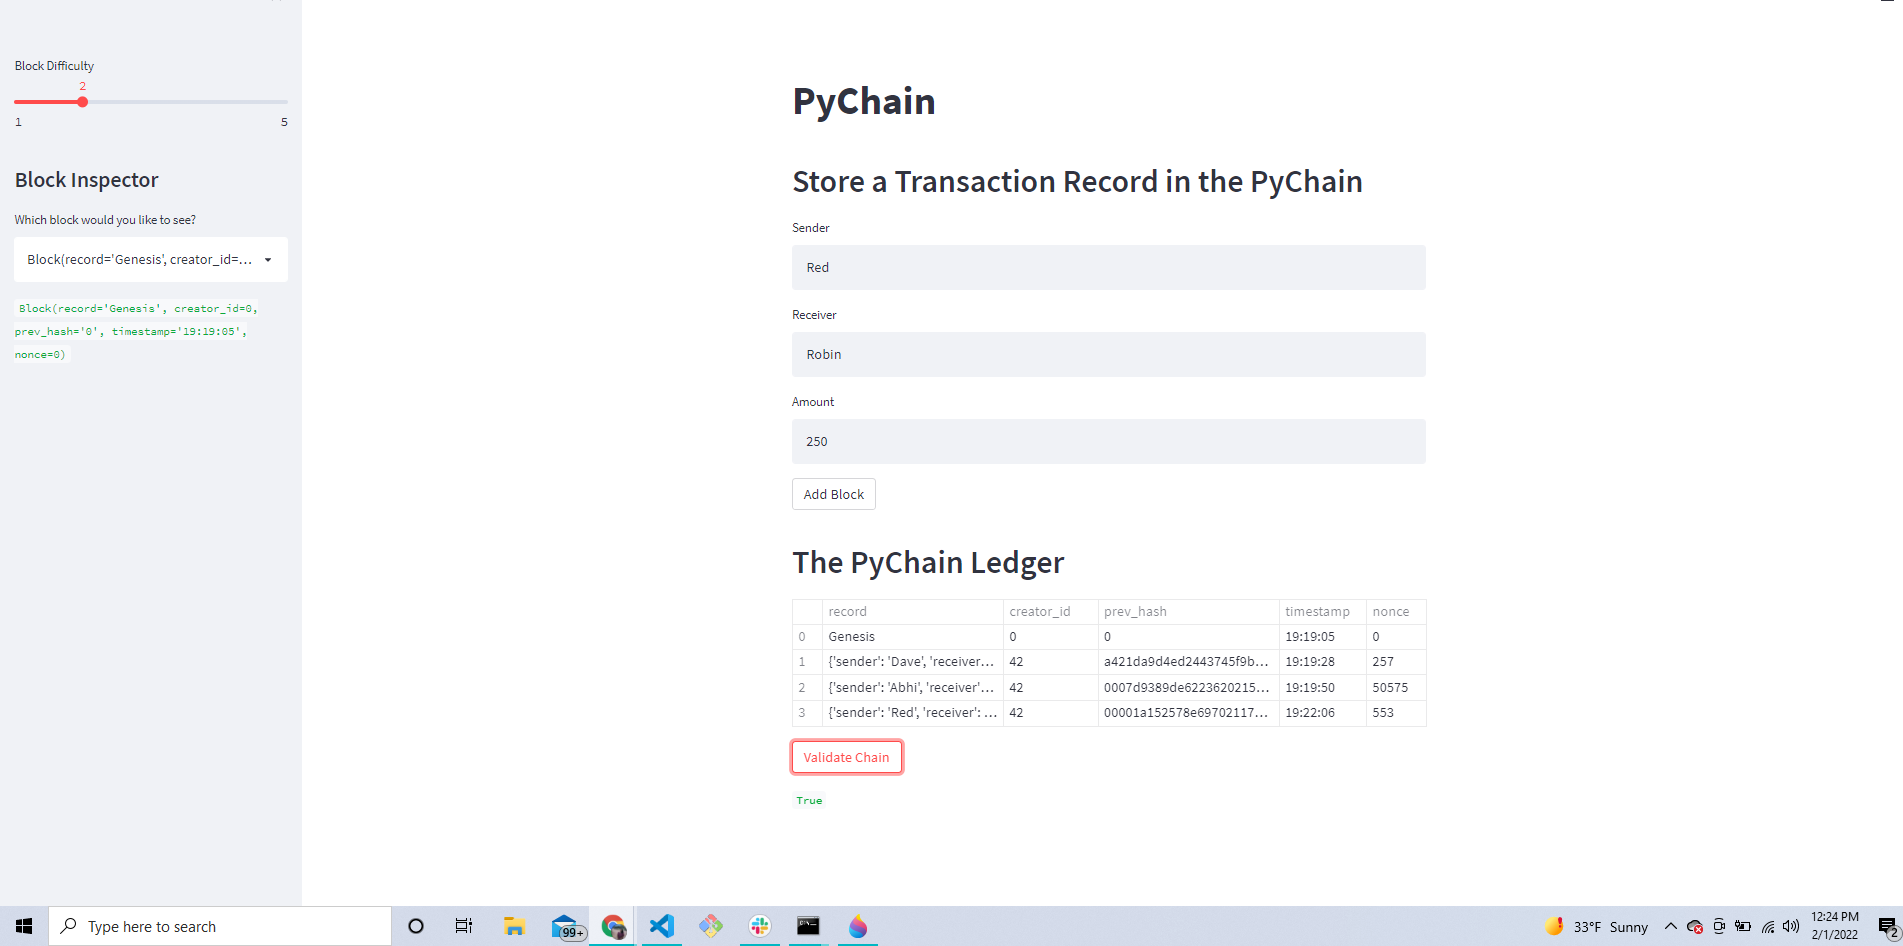
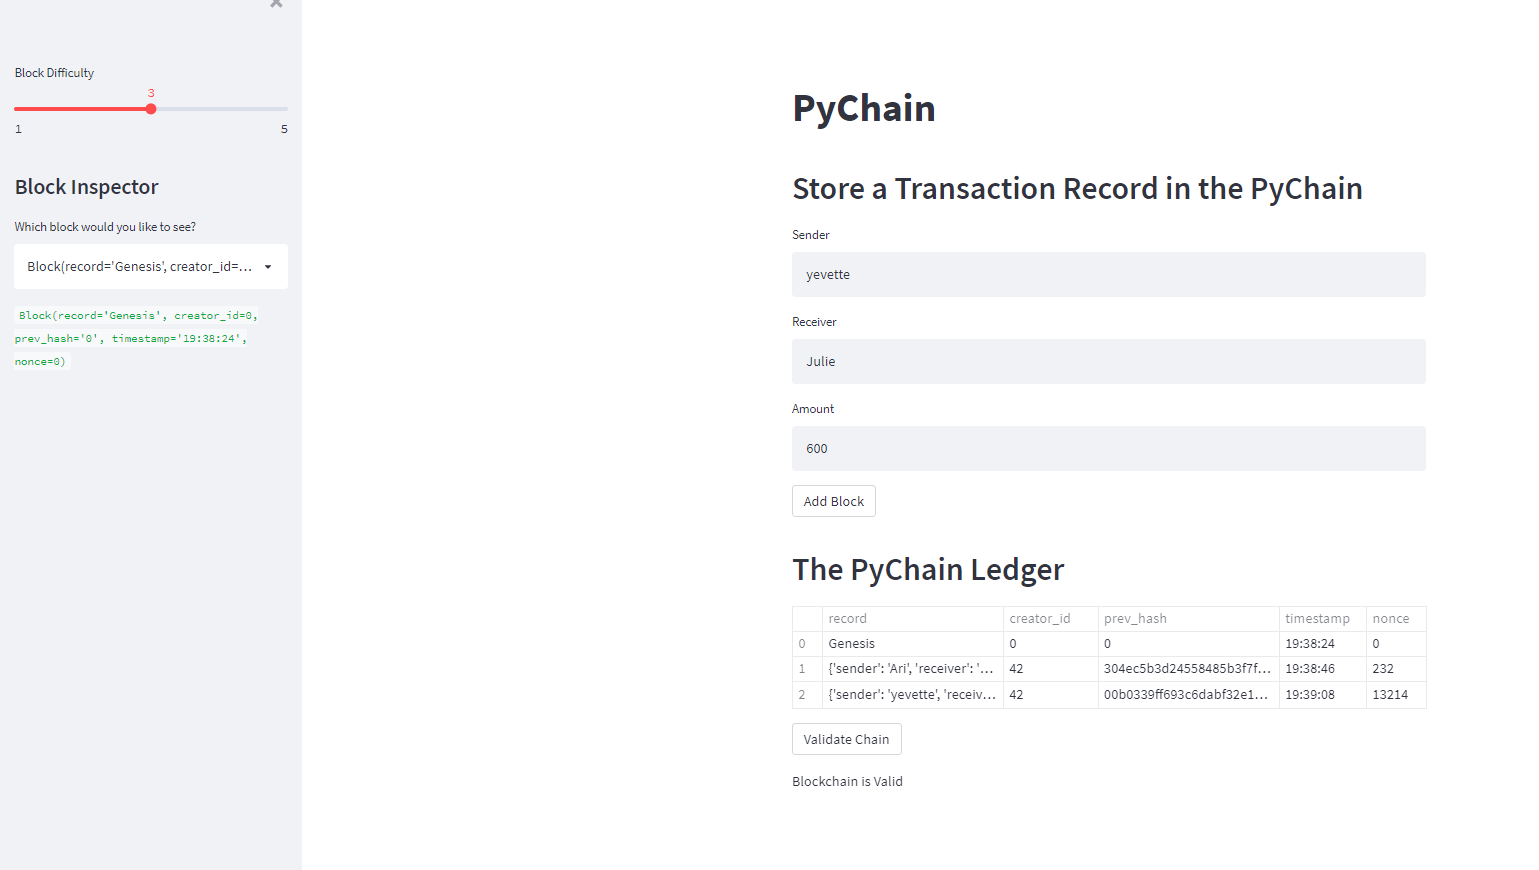
upated pychain.py

diff --git a/pychain.py b/pychain.py
@@ -152,7 +152,10 @@ selected_block = st.sidebar.selectbox(
 st.sidebar.write(selected_block)
 
 if st.button("Validate Chain"):
-    st.write(pychain.is_valid())
+    if(pychain.is_valid()):
+        st.write("Blockchain is Valid")
+    else:
+        st.write("Blockchain is Invalid")
 
 ################################################################################
 
